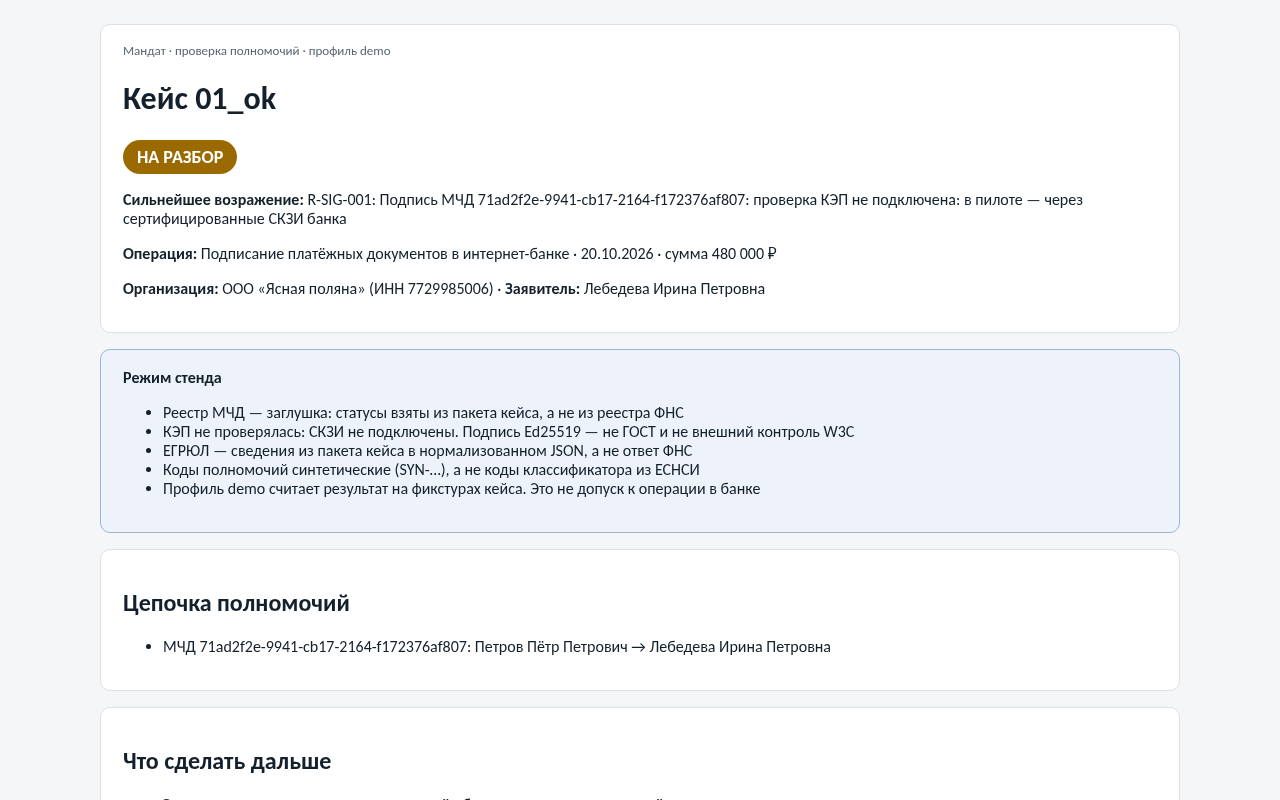
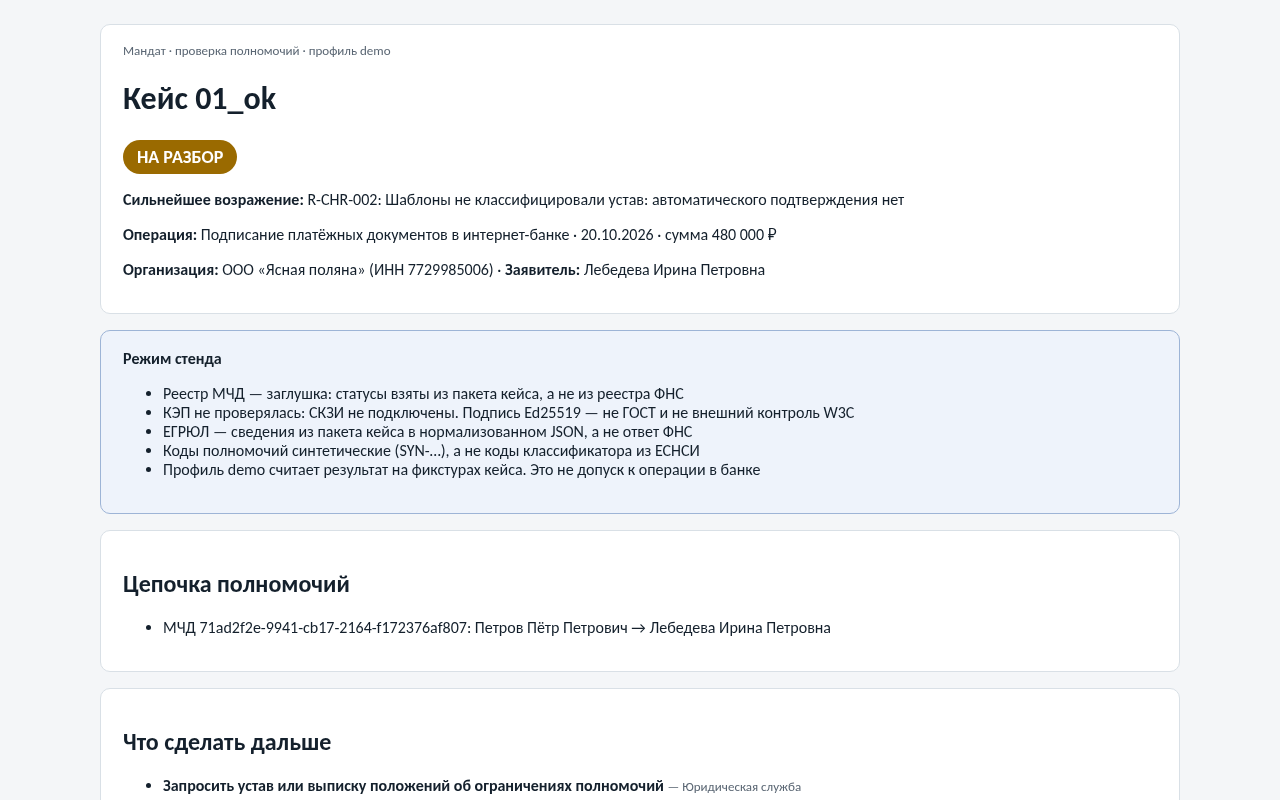
Demo case 14 with a synthetic charter mark; objection names the real reason

diff --git a/docs/demo/14_old_director_charter_cleared.html b/docs/demo/14_old_director_charter_cleared.html
@@ -1,0 +1,36 @@
+<!doctype html>
+<html lang="ru"><head><meta charset="utf-8"><meta name="viewport" content="width=device-width,initial-scale=1">
+<title>Мандат — кейс 14_old_director_charter_cleared</title><style>
+body{font-family:Calibri,Arial,sans-serif;background:#f4f6f8;color:#14202c;margin:0;padding:24px}
+main{max-width:1080px;margin:0 auto}
+.card{background:#fff;border:1px solid #d9e0e6;border-radius:10px;padding:18px 22px;margin-bottom:16px}
+.verdict{display:inline-block;color:#fff;font-weight:700;padding:6px 14px;border-radius:999px;font-size:18px}
+table{border-collapse:collapse;width:100%}td,th{border-bottom:1px solid #e3e8ed;padding:6px 8px;text-align:left;
+vertical-align:top;font-size:14px}th{background:#eef2f5}.muted{color:#5a6673;font-size:13px}
+.warn{background:#fff6e5;border-color:#f0c36d}code{font-size:12px;word-break:break-all}
+.stand{background:#eef3fb;border-color:#9db4d6}.stand h2{margin-top:0;font-size:16px}
+</style></head><body><main>
+<div class="card"><div class="muted">Мандат · проверка полномочий · профиль demo</div>
+<h1>Кейс 14_old_director_charter_cleared</h1>
+<span class="verdict" style="background:#1f7a4d">ПОДТВЕРЖДЕНО</span>
+<p><b>Сильнейшее возражение:</b> R-EIO-002: После выдачи МЧД 90ef631e-d4cb-1b3e-c4c3-5656e083edac руководитель сменился: сейчас Петров Алексей Иванович (ГРН 2267700654321, с 01.05.2026). Смена руководителя доверенность не прекращает (п. 1 ст. 188 ГК РФ); МЧД не отменена — сигнал мониторинга</p>
+<p><b>Операция:</b> Подписание платёжных документов в интернет-банке · 20.10.2026 · сумма 480 000 ₽</p>
+<p><b>Организация:</b> ООО «Ясная поляна» (ИНН 7729985006)
+ · <b>Заявитель:</b> Лебедева Ирина Петровна</p></div>
+<div class="card warn"><h2>Сигналы</h2><ul><li>После выдачи МЧД 90ef631e-d4cb-1b3e-c4c3-5656e083edac руководитель сменился: сейчас Петров Алексей Иванович (ГРН 2267700654321, с 01.05.2026). Смена руководителя доверенность не прекращает (п. 1 ст. 188 ГК РФ); МЧД не отменена — сигнал мониторинга</li></ul></div>
+<div class="card stand"><h2>Режим стенда</h2><ul><li>Реестр МЧД — заглушка: статусы взяты из пакета кейса, а не из реестра ФНС</li><li>КЭП не проверялась: СКЗИ не подключены. Подпись Ed25519 — не ГОСТ и не внешний контроль W3C</li><li>ЕГРЮЛ — сведения из пакета кейса в нормализованном JSON, а не ответ ФНС</li><li>Коды полномочий синтетические (SYN-…), а не коды классификатора из ЕСНСИ</li><li>Профиль demo считает результат на фикстурах кейса. Это не допуск к операции в банке</li></ul></div>
+<div class="card"><h2>Цепочка полномочий</h2><ul><li>МЧД 90ef631e-d4cb-1b3e-c4c3-5656e083edac: Петров Пётр Петрович → Лебедева Ирина Петровна</li></ul></div>
+<div class="card"><h2>Что сделать дальше</h2><ul><li>До операции в банке нужна проверка доверенных источников: реестр МЧД, ЕГРЮЛ и КЭП. Это не разрешение провести платёж.</li></ul>
+<p class="muted">Очередь: без разбора, рекомендация
+ · приоритет — · SLA — ч (заглушка до калибровки с банком)</p>
+<p>Роль <b>DBO_PAYMENT_SIGNER</b> — рекомендована, теневой режим: только рекомендация; основание: МЧД 90ef631e-d4cb-1b3e-c4c3-5656e083edac</p></div>
+<div class="card"><h2>Группы проверок</h2><table><tr><th>Группа</th><th>Статус</th></tr><tr><td>Формат документа</td><td>выполнено</td></tr><tr><td>Реквизиты и стороны</td><td>выполнено</td></tr><tr><td>Реестр МЧД</td><td>выполнено</td></tr><tr><td>Срок действия</td><td>выполнено</td></tr><tr><td>Руководитель по ЕГРЮЛ</td><td>выполнено</td></tr><tr><td>Покрытие операции</td><td>выполнено</td></tr><tr><td>Передоверие</td><td>не применимо</td></tr><tr><td>Ограничения устава</td><td>только справка</td></tr><tr><td>Электронная подпись</td><td>не выполнялась (профиль)</td></tr></table></div>
+<div class="card"><h2>Находки и доказательства</h2><table><tr><th>Правило</th><th>Эффект</th><th>Вывод</th>
+<th>Источник</th></tr><tr><td>R-SIG-001</td><td>не проверено</td><td>Подпись МЧД 90ef631e-d4cb-1b3e-c4c3-5656e083edac: проверка КЭП не подключена: в пилоте — через сертифицированные СКЗИ банка<div class='muted'>63-ФЗ, ст. 11; проверка КЭП — сертифицированными СКЗИ банка (в стенде не подключена) · правило draft</div></td><td><code>signature:signature-not-connected@55baed473e19#poa:90ef631e-d4cb-1b3e-c4c3-5656e083edac</code></td></tr><tr><td>R-COV-001</td><td>подтверждает</td><td>Полномочие SYN-BANK-PAY-SIGN покрывает «Подписание платёжных документов в интернет-банке»<div class='muted'>ГК РФ, ст. 182, 185; единый классификатор полномочий (63-ФЗ в ред. 476-ФЗ; Приказ Минцифры № 856 от 18.08.2021) · правило draft</div></td><td><code>poa-root@55baed473e19#/Доверенность/Документ/Довер/СвПолн/МашПолн[1]</code></td></tr><tr><td>R-COV-002</td><td>подтверждает</td><td>Код SYN-BANK-PAY-SIGN действует в классификаторе<div class='muted'>Единый классификатор полномочий (Приказ Минцифры № 856; справочник в ЕСНСИ с датами начала и исключения кода) · правило draft</div></td><td><code>poa-root@55baed473e19#/Доверенность/Документ/Довер/СвПолн/МашПолн[1]</code><br><code>classifier:mandat-authority-classifier@5f08b73d574a#code:SYN-BANK-PAY-SIGN</code></td></tr><tr><td>R-EIO-001</td><td>подтверждает</td><td>МЧД 90ef631e-d4cb-1b3e-c4c3-5656e083edac подписал руководитель Петров Пётр Петрович (ГРН 2247700123456)<div class='muted'>ГК РФ, ст. 53, 185.1 · правило draft</div></td><td><code>poa-root@55baed473e19#/Доверенность/Документ/Довер/СвДоверит/Доверит/РосОргДовер/ЛицоБезДов/СвФЛ/@ИННФЛ</code><br><code>egrul@8431ce38edc6#$.executives[0]</code></td></tr><tr><td>R-FMT-001</td><td>подтверждает</td><td>МЧД 90ef631e-d4cb-1b3e-c4c3-5656e083edac разобрана, обязательные поля на месте<div class='muted'>63-ФЗ, ст. 17.2–17.5 в ред. 476-ФЗ (с 01.09.2024 представитель юрлица подписывает своей КЭП и МЧД); формат МЧД 003 · правило draft</div></td><td><code>poa-root@55baed473e19#/Доверенность/Документ/Довер/СвДов/@НомДовер</code></td></tr><tr><td>R-FMT-002</td><td>подтверждает</td><td>МЧД 90ef631e-d4cb-1b3e-c4c3-5656e083edac: единый формат 003<div class='muted'>Приказ Минцифры № 857 от 18.08.2021 (единые требования к формам МЧД); формат 003. Формат ФНС 5.0x — для налоговых отношений · правило draft</div></td><td><code>poa-root@55baed473e19#/Доверенность/@ВерсФорм</code></td></tr><tr><td>R-FMT-003</td><td>подтверждает</td><td>МЧД 90ef631e-d4cb-1b3e-c4c3-5656e083edac: реквизиты по единым требованиям в ред. Приказа № 1001 на месте<div class='muted'>Приказ Минцифры № 857 от 18.08.2021 в ред. Приказа № 1001 от 05.11.2025 (в силу с 01.02.2026): КПП доверителя, СНИЛС руководителя доверителя, наименование полномочия рядом с кодом · правило draft</div></td><td><code>poa-root@55baed473e19#/Доверенность/Документ/Довер/СвДоверит/Доверит/РосОргДовер/СвРосОрг/@КПП</code></td></tr><tr><td>R-ID-001</td><td>подтверждает</td><td>Контрольные числа сходятся (11 реквизитов)<div class='muted'>Алгоритмы контрольных чисел ИНН и ОГРН (ФНС), СНИЛС (СФР) · правило draft</div></td><td><code>case@d80feb74ffa5#case.json</code></td></tr><tr><td>R-ID-002</td><td>подтверждает</td><td>МЧД 90ef631e-d4cb-1b3e-c4c3-5656e083edac выдана организацией клиента<div class='muted'>ГК РФ, ст. 182, 185 · правило draft</div></td><td><code>poa-root@55baed473e19#/Доверенность/Документ/Довер/СвДоверит/Доверит/РосОргДовер/СвРосОрг/@ИННЮЛ</code></td></tr><tr><td>R-ID-003</td><td>подтверждает</td><td>Представитель Лебедева Ирина Петровна совпадает с заявителем<div class='muted'>ГК РФ, ст. 182, 185; Приказ Минцифры № 857 в ред. № 1001 (с 01.02.2026): представитель указывается с СНИЛС и ИНН, паспорт не обязателен; идентификация (115-ФЗ, ст. 7) — каналами банка · правило draft</div></td><td><code>poa-root@55baed473e19#/Доверенность/Документ/Довер/СвУпПред/Пред[1]</code></td></tr><tr><td>R-ID-004</td><td>подтверждает</td><td>Наименование доверителя в МЧД 90ef631e-d4cb-1b3e-c4c3-5656e083edac совпадает с ЕГРЮЛ<div class='muted'>Приказ Минцифры № 857 в ред. Приказа № 1001: наименование доверителя по ЕГРЮЛ · правило draft</div></td><td><code>poa-root@55baed473e19#/Доверенность/Документ/Довер/СвДоверит/Доверит/РосОргДовер/СвРосОрг/@НаимОрг</code><br><code>egrul@8431ce38edc6#$.full_name</code></td></tr><tr><td>R-REG-001</td><td>подтверждает</td><td>МЧД 90ef631e-d4cb-1b3e-c4c3-5656e083edac действует в реестре<div class='muted'>ГК РФ, ст. 188, 189; 63-ФЗ в ред. 476-ФЗ (сведения о МЧД и её отмене в информационной системе — распределённый реестр ФНС) · правило draft</div></td><td><code>registry:fixture-registry@24239cf9f703#registry:90ef631e-d4cb-1b3e-c4c3-5656e083edac</code></td></tr><tr><td>R-TERM-001</td><td>подтверждает</td><td>МЧД 90ef631e-d4cb-1b3e-c4c3-5656e083edac действует до 28.02.2027<div class='muted'>ГК РФ, ст. 186 п. 1: если срок не указан, доверенность действует год со дня совершения; в описании схемы 003 срок (СрокДейст) — обязательный реквизит · правило draft</div></td><td><code>poa-root@55baed473e19#/Доверенность/Документ/Довер/СвДов/@СрокДейст</code></td></tr><tr><td>R-TERM-002</td><td>подтверждает</td><td>Дата операции в сроке МЧД 90ef631e-d4cb-1b3e-c4c3-5656e083edac<div class='muted'>ГК РФ, ст. 186 (в том числе срок по умолчанию — год); ст. 188 п. 1 (истечение срока) · правило draft</div></td><td><code>poa-root@55baed473e19#/Доверенность/Документ/Довер/СвДов/@СрокДейст</code></td></tr><tr><td>R-CHR-002</td><td>справка</td><td>В кейсе есть отметка, что для операции не нашли применимого ограничения. Это не вывод шаблонов<div class='muted'>ГК РФ, ст. 174 · правило draft</div></td><td><code>charter@9f31ea4ff4ba#text</code></td></tr><tr><td>R-EIO-002</td><td>справка</td><td>После выдачи МЧД 90ef631e-d4cb-1b3e-c4c3-5656e083edac руководитель сменился: сейчас Петров Алексей Иванович (ГРН 2267700654321, с 01.05.2026). Смена руководителя доверенность не прекращает (п. 1 ст. 188 ГК РФ); МЧД не отменена — сигнал мониторинга<div class='muted'>ГК РФ, ст. 188 п. 1 — смена руководителя не входит в исчерпывающий перечень оснований прекращения доверенности; разъяснения ФНС: ранее выданные МЧД действуют, пока их не отменили · правило draft</div></td><td><code>egrul@8431ce38edc6#$.executives[1]</code><br><code>poa-root@55baed473e19#/Доверенность/Документ/Довер/СвДоверит/Доверит/РосОргДовер/ЛицоБезДов/СвФЛ/@ИННФЛ</code></td></tr></table></div>
+<div class="card warn"><h2>Границы результата</h2><ul><li>Проверка «Электронная подпись» не выполнялась (профиль demo)</li>
+<li>«Подтверждено» означает соответствие правилам этой версии, а не юридическое заключение и не выдачу прав.</li>
+</ul></div>
+<div class="card muted">Набор правил mandat-rules-ru 2026.10.2
+ (<code>aa0b6d71998aad40</code>) · хеш отчёта <code>b338868cb798d53e</code>
+ · 2026-10-13T10:14:16+00:00 · mandat/0.3.0</div>
+</main></body></html>

diff --git a/docs/demo/05_director_changed.html b/docs/demo/05_director_changed.html
@@ -13,7 +13,7 @@ vertical-align:top;font-size:14px}th{background:#eef2f5}.muted{color:#5a6673;fon
 <div class="card"><div class="muted">Мандат · проверка полномочий · профиль demo</div>
 <h1>Кейс 05_director_changed</h1>
 <span class="verdict" style="background:#9a6a00">НА РАЗБОР</span>
-<p><b>Сильнейшее возражение:</b> R-SIG-001: Подпись МЧД 914279a9-81bb-e011-fc2e-53f6663176a7: проверка КЭП не подключена: в пилоте — через сертифицированные СКЗИ банка</p>
+<p><b>Сильнейшее возражение:</b> R-EIO-002: После выдачи МЧД 914279a9-81bb-e011-fc2e-53f6663176a7 руководитель сменился: сейчас Петров Алексей Иванович (ГРН 2267700654321, с 01.10.2026). Смена руководителя доверенность не прекращает (п. 1 ст. 188 ГК РФ); смена свежая — не более 30 дн.: нужен разбор</p>
 <p><b>Операция:</b> Подписание платёжных документов в интернет-банке · 20.10.2026 · сумма 480 000 ₽</p>
 <p><b>Организация:</b> ООО «Ясная поляна» (ИНН 7729985006)
  · <b>Заявитель:</b> Лебедева Ирина Петровна</p></div>
@@ -31,6 +31,6 @@ vertical-align:top;font-size:14px}th{background:#eef2f5}.muted{color:#5a6673;fon
 <li>«Подтверждено» означает соответствие правилам этой версии, а не юридическое заключение и не выдачу прав.</li>
 </ul></div>
 <div class="card muted">Набор правил mandat-rules-ru 2026.10.2
- (<code>aa0b6d71998aad40</code>) · хеш отчёта <code>a50c4dfda746d26c</code>
- · 2026-10-13T07:05:52+00:00 · mandat/0.3.0</div>
+ (<code>aa0b6d71998aad40</code>) · хеш отчёта <code>cf739c6d0fa788a8</code>
+ · 2026-10-13T10:14:16+00:00 · mandat/0.3.0</div>
 </main></body></html>

diff --git a/docs/demo/10_old_director_poa.html b/docs/demo/10_old_director_poa.html
@@ -13,7 +13,7 @@ vertical-align:top;font-size:14px}th{background:#eef2f5}.muted{color:#5a6673;fon
 <div class="card"><div class="muted">Мандат · проверка полномочий · профиль demo</div>
 <h1>Кейс 10_old_director_poa</h1>
 <span class="verdict" style="background:#9a6a00">НА РАЗБОР</span>
-<p><b>Сильнейшее возражение:</b> R-SIG-001: Подпись МЧД 90ef631e-d4cb-1b3e-c4c3-5656e083edac: проверка КЭП не подключена: в пилоте — через сертифицированные СКЗИ банка</p>
+<p><b>Сильнейшее возражение:</b> R-CHR-002: Шаблоны не классифицировали устав: автоматического подтверждения нет</p>
 <p><b>Операция:</b> Подписание платёжных документов в интернет-банке · 20.10.2026 · сумма 480 000 ₽</p>
 <p><b>Организация:</b> ООО «Ясная поляна» (ИНН 7729985006)
  · <b>Заявитель:</b> Лебедева Ирина Петровна</p></div>
@@ -31,6 +31,6 @@ vertical-align:top;font-size:14px}th{background:#eef2f5}.muted{color:#5a6673;fon
 <li>«Подтверждено» означает соответствие правилам этой версии, а не юридическое заключение и не выдачу прав.</li>
 </ul></div>
 <div class="card muted">Набор правил mandat-rules-ru 2026.10.2
- (<code>aa0b6d71998aad40</code>) · хеш отчёта <code>a571f222dec3063d</code>
- · 2026-10-13T07:05:52+00:00 · mandat/0.3.0</div>
+ (<code>aa0b6d71998aad40</code>) · хеш отчёта <code>c2a58e5392987620</code>
+ · 2026-10-13T10:14:16+00:00 · mandat/0.3.0</div>
 </main></body></html>

diff --git a/docs/demo/01_ok.html b/docs/demo/01_ok.html
@@ -13,7 +13,7 @@ vertical-align:top;font-size:14px}th{background:#eef2f5}.muted{color:#5a6673;fon
 <div class="card"><div class="muted">Мандат · проверка полномочий · профиль demo</div>
 <h1>Кейс 01_ok</h1>
 <span class="verdict" style="background:#9a6a00">НА РАЗБОР</span>
-<p><b>Сильнейшее возражение:</b> R-SIG-001: Подпись МЧД 71ad2f2e-9941-cb17-2164-f172376af807: проверка КЭП не подключена: в пилоте — через сертифицированные СКЗИ банка</p>
+<p><b>Сильнейшее возражение:</b> R-CHR-002: Шаблоны не классифицировали устав: автоматического подтверждения нет</p>
 <p><b>Операция:</b> Подписание платёжных документов в интернет-банке · 20.10.2026 · сумма 480 000 ₽</p>
 <p><b>Организация:</b> ООО «Ясная поляна» (ИНН 7729985006)
  · <b>Заявитель:</b> Лебедева Ирина Петровна</p></div>
@@ -31,6 +31,6 @@ vertical-align:top;font-size:14px}th{background:#eef2f5}.muted{color:#5a6673;fon
 <li>«Подтверждено» означает соответствие правилам этой версии, а не юридическое заключение и не выдачу прав.</li>
 </ul></div>
 <div class="card muted">Набор правил mandat-rules-ru 2026.10.2
- (<code>aa0b6d71998aad40</code>) · хеш отчёта <code>0ecb17ba4f3ffc86</code>
- · 2026-10-13T07:05:52+00:00 · mandat/0.3.0</div>
+ (<code>aa0b6d71998aad40</code>) · хеш отчёта <code>23547465ed2bb1a1</code>
+ · 2026-10-13T10:14:16+00:00 · mandat/0.3.0</div>
 </main></body></html>

diff --git a/src/mandat/services/next_steps.py b/src/mandat/services/next_steps.py
@@ -13,6 +13,12 @@ from mandat.domain.model import Finding
 from mandat.domain.verdict import LegalEffect, Verdict
 
 _ORDER = {LegalEffect.REFUTES: 0, LegalEffect.NOT_VERIFIED: 1, LegalEffect.NEEDS_REVIEW: 2}
+_DRIVER = {
+    Verdict.REFUTED: LegalEffect.REFUTES,
+    Verdict.NEEDS_REVIEW: LegalEffect.NEEDS_REVIEW,
+    Verdict.INSUFFICIENT_DATA: LegalEffect.NOT_VERIFIED,
+}
+_GENERIC = frozenset({"R-CHR-002"})
 SLA_HOURS = {"P1": 4, "P2": 24, "P3": 72}
 # Справки, которые сотрудник должен увидеть сразу: они не меняют вердикт, но требуют внимания.
 SIGNAL_RULES = frozenset({"R-EIO-002", "R-SUB-008"})
@@ -56,7 +62,13 @@ def strongest_objection(verdict: Verdict, findings: list[Finding], warnings: lis
             return f"{signals[0].rule_id}: {signals[0].message}"
     ranked = [f for f in findings if f.origin == "deterministic" and f.effect in _ORDER]
     if ranked:
-        finding = min(ranked, key=lambda f: (_ORDER[f.effect], f.rule_id))
+        # Сначала находка того же вида, что и вердикт: она и есть настоящая причина.
+        # Неразмеченный устав (R-CHR-002) есть почти в каждом кейсе, поэтому он идёт последним из равных.
+        # Снятая в профиле проверка (например, подпись в demo) не должна заслонять её.
+        driver = _DRIVER.get(verdict)
+        finding = min(
+            ranked, key=lambda f: (f.effect is not driver, _ORDER[f.effect], f.rule_id in _GENERIC, f.rule_id)
+        )
         return f"{finding.rule_id}: {finding.message}"
     if verdict is Verdict.CONFIRMED:
         waived = [w for w in warnings if "не выполнялась" in w]

diff --git a/src/mandat/examples.py b/src/mandat/examples.py
@@ -37,7 +37,18 @@ OVERLAYS = {
         "Доверитель в конкурсном производстве: доверенность прекратилась (ст. 126 127-ФЗ, подп. 7 п. 1 ст. 188 ГК РФ)",
         "refuted",
     ),
+    "14_old_director_charter_cleared": (
+        "director_changed_long_ago",
+        "Кейс 10 с синтетической отметкой «по уставу применимых ограничений нет»: "
+        "подтверждено, смена руководителя — сигнал",
+        "confirmed",
+    ),
 }
+# Дополнения манифеста для кейсов поверх сценария.
+CHARTER_NOTE = (
+    "СИНТЕТИЧЕСКАЯ отметка для демонстрации: устав никто не проверял. В банке такую отметку ставит юрист "
+    "после чтения устава, и она попадает в журнал вместе с его именем."
+)
 SEED = 2026
 
 
@@ -59,6 +70,9 @@ def write_examples(target: Path) -> list[Path]:
         }
         if folder == "13_bankruptcy":
             manifest["bankruptcy"] = {scenario.manifest["organization"]["inn"]: "bankruptcy_proceedings"}
+        if folder == "14_old_director_charter_cleared":
+            manifest["charter_disposition"] = "no_applicable_restriction"
+            manifest["charter_disposition_note"] = CHARTER_NOTE
         (case_dir / "case.json").write_text(
             json.dumps(manifest, ensure_ascii=False, indent=2) + "\n", encoding="utf-8", newline="\n"
         )

diff --git a/tests/test_rules.py b/tests/test_rules.py
@@ -530,3 +530,21 @@ def test_objection_on_confirmed_names_the_signal_first():
     waived = Finding("R-SIG-001", "signature", LegalEffect.NOT_VERIFIED, "подпись не проверена", "n", ref)
     text = strongest_objection(Verdict.CONFIRMED, [waived, signal], [])
     assert text.startswith("R-EIO-002")
+
+
+def test_objection_names_the_real_reason_not_a_waived_check():
+    """В demo проверка подписи снята; возражение должно назвать причину вердикта."""
+    import json
+    from pathlib import Path
+
+    from mandat.intake.case_loader import load_case_dir
+    from mandat.services.verify import verify_case
+
+    root = Path(__file__).resolve().parents[1] / "examples" / "cases"
+    for case, rule in (
+        ("01_ok", "R-CHR-002"),
+        ("05_director_changed", "R-EIO-002"),
+        ("10_old_director_poa", "R-CHR-002"),
+    ):
+        report = json.loads(json.dumps(verify_case(load_case_dir(root / case)).as_dict()))
+        assert report["objection"].startswith(rule), (case, report["objection"])

diff --git a/tests/test_core.py b/tests/test_core.py
@@ -185,7 +185,9 @@ def test_verdict_oracle_agrees_with_fold():
 
 def test_confirmed_report_names_the_strongest_objection():
     report = run("ok").as_dict()
-    assert report["objection"].startswith("R-SIG-001")
+    # «ok» уходит на разбор из-за неразмеченного устава; снятая в demo подпись — не причина вердикта.
+    assert report["verdict"] == "needs_review"
+    assert report["objection"].startswith("R-CHR-002")
     assert "Сильнейшее возражение" in render(report)
 
 

diff --git a/scripts/export_demo_cards.py b/scripts/export_demo_cards.py
@@ -12,7 +12,7 @@ import sys
 from pathlib import Path
 
 ROOT = Path(__file__).resolve().parents[1]
-CARDS = ("01_ok", "10_old_director_poa", "05_director_changed")
+CARDS = ("01_ok", "10_old_director_poa", "05_director_changed", "14_old_director_charter_cleared")
 
 
 def export(src: Path, dst: Path) -> list[Path]:

diff --git a/README.md b/README.md
@@ -26,7 +26,7 @@
 | | |
 |---|---|
 | **Что делает** | Строит цепочку «руководитель по ЕГРЮЛ → МЧД → передоверие → представитель» на дату операции, прогоняет её через 36 правил и сводит их в один вердикт с доказательствами |
-| **Что уже есть** | 13 демо-кейсов, HTML-карточка, журнал с доказательством включения записи, удостоверение со статусами отзыва и приостановки, мониторинг отмены МЧД и признаков захвата, проверка банкротства по данным кейса, HTTP API с ролями. Всё запускается одной командой |
+| **Что уже есть** | 14 демо-кейсов, HTML-карточка, журнал с доказательством включения записи, удостоверение со статусами отзыва и приостановки, мониторинг отмены МЧД и признаков захвата, проверка банкротства по данным кейса, HTTP API с ролями. Всё запускается одной командой |
 | **Что измерено** | На синтетическом корпусе правила ловят заложенный дефект, ложных «подтверждено» нет. Это проверка логики, а не точность на документах банка (C-03…C-06 в [реестре](CLAIMS_REGISTRY.md)) |
 | **Чего нет** | Живого реестра ФНС и ЕФРСБ, проверки КЭП по ГОСТ, правил, утверждённых юристом банка, кодов классификатора из ЕСНСИ. Права в интернет-банке система не выдаёт: на пилоте она только рекомендует роль |
 | **Как запустить** | Windows: `.\run-demo.ps1`, потом открыть `var\demo\01_ok.html`, `10_old_director_poa.html` и `05_director_changed.html` |
@@ -35,9 +35,11 @@
 
 Три карточки из `mandat demo` лежат в репозитории как статичные страницы. Картинка ведёт на саму карточку.
 
-| Без опровержений, но устав не закрыт | Давняя смена директора: только сигнал | Свежая смена директора: на разбор |
-|---|---|---|
-| [![01_ok](docs/demo/01_ok.png)](docs/demo/01_ok.html) | [![10_old_director_poa](docs/demo/10_old_director_poa.png)](docs/demo/10_old_director_poa.html) | [![05_director_changed](docs/demo/05_director_changed.png)](docs/demo/05_director_changed.html) |
+| Без опровержений, но устав не закрыт | Давняя смена директора: только сигнал | Свежая смена директора: на разбор | Тот же кейс 10 с отметкой об уставе: подтверждено |
+|---|---|---|---|
+| [![01_ok](docs/demo/01_ok.png)](docs/demo/01_ok.html) | [![10_old_director_poa](docs/demo/10_old_director_poa.png)](docs/demo/10_old_director_poa.html) | [![05_director_changed](docs/demo/05_director_changed.png)](docs/demo/05_director_changed.html) | [![14_old_director_charter_cleared](docs/demo/14_old_director_charter_cleared.png)](docs/demo/14_old_director_charter_cleared.html) |
+
+Отметка «по уставу применимых ограничений нет» в кейсе 14 синтетическая: устав никто не проверял, она нужна, чтобы показать единственный путь к «подтверждено». В банке её ставит юрист, и она попадает в журнал.
 
 Обновить: `mandat demo`, затем `python scripts/export_demo_cards.py`.
 
